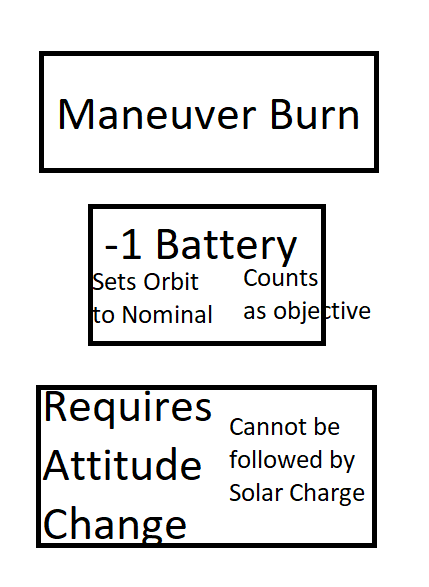
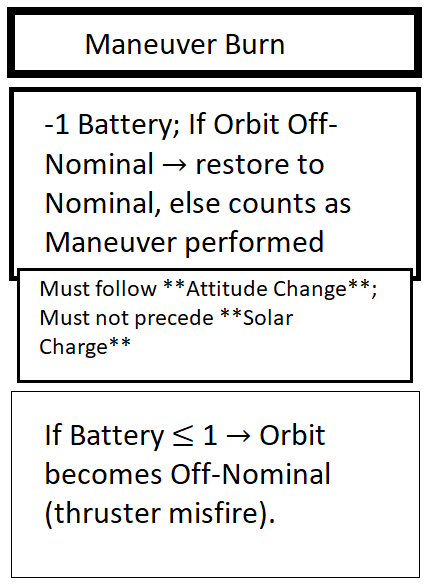
Update card images

Changed region(s): [[0.0, 0.0, 1.0, 0.9506]]

diff --git a/card_text.md b/card_text.md
@@ -6,13 +6,13 @@
 
 | Card Name (TLE)     | Count | Effect                                                                                  | Conditions                                                                                       | Reveal Effect                                                                                    |
 | ------------------- | ----- | --------------------------------------------------------------------------------------- | ------------------------------------------------------------------------------------------------ | ------------------------------------------------------------------------------------------------ |
-| **Solar Charge**    | 4     | +2 Battery (max 5)                                                                      | Must not precede **Downlink**                                                                    | If Battery already at 5 → energy wasted (no effect).                                             |
-| **Power Load Shedding**| 2  | +1 Battery                                                                              | Must follow a **Command Uplink**                                                                 | If Battery ≤ 1 → Comms go Offline. -1 Battery                                                    |
+| **Solar Charge**    | 4     | +2 Battery (max 5)                                                                      | Must not precede **Downlink**                                                                    | If Battery already at 5 → wasted slot.                                             |
+| **Power Load Shedding**| 2  | +1 Battery                                                                              | Must follow a **Command Uplink**                                                                 | If Battery ≤ 2 → Comms go Offline.                                                               |
 | **Data Capture**    | 3     | +1 Data Stored (max 3)                                                                  | Requires **Comms Online**; Must be followed within 2 slots by **Downlink** or **High Gain Pass** | If Comms go Offline before Downlink → all stored Data lost.                                      |
 | **Downlink**        | 3     | Send 1 Data to Mission Objective                                                        | Must follow **Data Capture** (within 2 slots); Must not precede **Maneuver Burn**                | If attempted with Comms Offline → wasted slot and Battery -1.                                    |
 | **Maneuver Burn**   | 2     | -1 Battery; If Orbit Off-Nominal → restore to Nominal, else counts as Maneuver performed| Must follow **Attitude Change**; Must not precede **Solar Charge**                               | If Battery ≤ 1 → Orbit becomes Off-Nominal (thruster misfire).                                   |
 | **Attitude Change** | 3     | +1 Data to a following **Downlink** OR allows a **Maneuver Burn**                       | Must be followed by **Maneuver Burn** or **Downlink**                                            | If not followed by a valid card → wasted slot.                                                   |
-| **Command Uplink**  | 2     | If Comms Offline → Reactivate. If Online → Prep Payload (+1 Data Capture effectiveness) | Requires **Battery ≥ 2**; Must not precede **Maneuver Burn**                                     | If Battery < 2 → Comms go Offline.                                                               |
+| **Command Uplink**  | 2     | If Comms Offline → Reactivate. If Online → Prep Payload (+1 Data Capture effectiveness) | Requires **Battery ≥ 2**; Must not precede **Maneuver Burn**                                     | If Battery ≤ 2 → Comms go Offline.                                                               |
 
 ---
 
